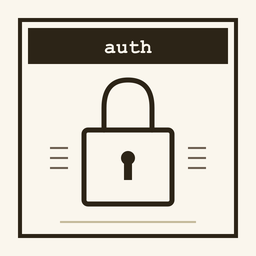
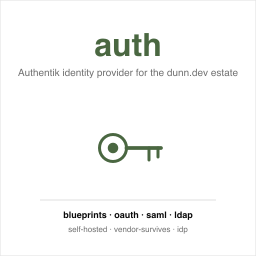
feat: brand kit + LICENSE/CODEOWNERS + reference deviations
Brings the project into conformance with the dunn.dev reference
standards. Repository check now reports 8/8 PASS; gaps are
registered as permanent deviations (no HTML surface; no CI by
design where applicable).

Brand kit: avatar.svg + hero.svg + favicon.svg + brand.png on the
canonical estate look (white canvas, moss accent). LICENSE +
CODEOWNERS added where missing. README opens with the
![hero](hero.svg) embed per the repository standard.
.deviations.yaml registers the structural non-applicabilities.

Changed region(s): [[0.0625, 0.0625, 0.9375, 0.9375], [0.7188, 0.5625, 0.8125, 0.6875], [0.1875, 0.5625, 0.2812, 0.6875]]

diff --git a/README.md b/README.md
@@ -1,3 +1,5 @@
+![hero](hero.svg)
+
 # auth
 
 [![license](https://img.shields.io/badge/license-MIT-green)](LICENSE) ![built with GitLab](https://img.shields.io/badge/built_with-GitLab-FC6D26?logo=gitlab)
